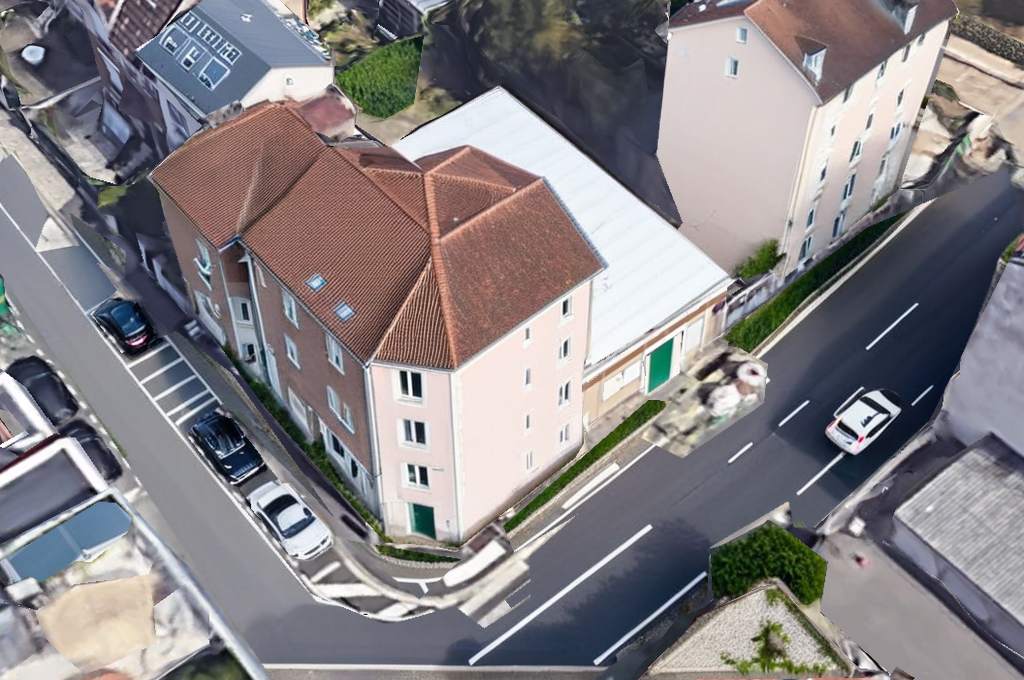
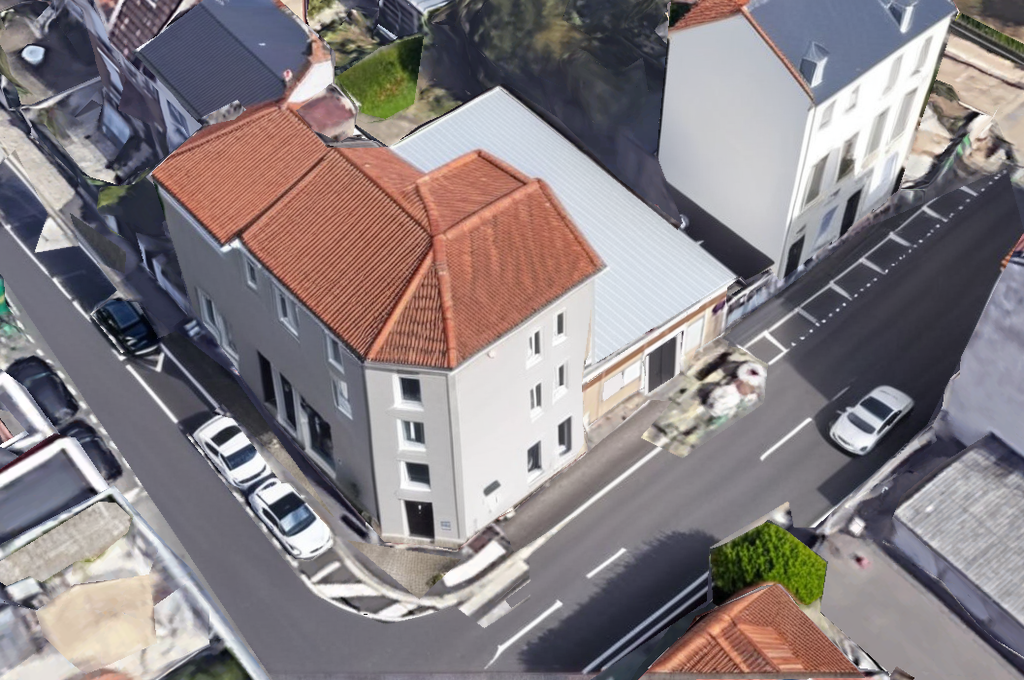
feat: Update random seed generation and modify input prompt for aerial view enhancement

diff --git a/run.py b/run.py
@@ -6,7 +6,7 @@ INPUT_IMAGE_URL = "https://res.cloudinary.com/ddmzn1508/image/upload/v1769946149
 
 result = run_pipeline(
     INPUT_IMAGE_URL, 
-    "Améliorer la vue aérienne, le batiment, et l'environnement",
+    "Je veux installer un joli roof top dans la toiture",
     enable_scene_detection=True,
     enable_controlnet=True,       # ✅ ControlNet (préserve structure)
     enable_segmentation=True,     # ✅ Segmentation (masque ciblé)

diff --git a/config/settings.py b/config/settings.py
@@ -18,5 +18,6 @@ SEGMENT_FEATHER = 0       # Aucun feathering - transitions nettes
 # Generation mode
 USE_INPAINTING = False    # False = ControlNet + masque (cumule les deux !)
 
-SEED = 123456
+import random
+SEED = random.randint(0, 2**32 - 1)
 MAX_SIZE = 1024
